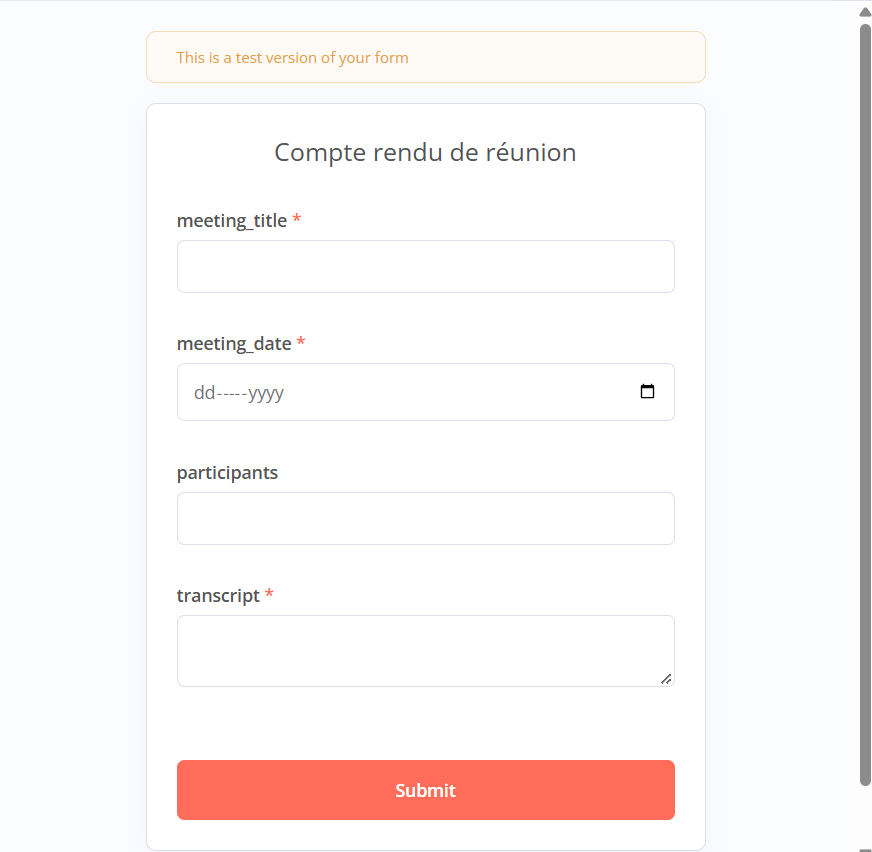
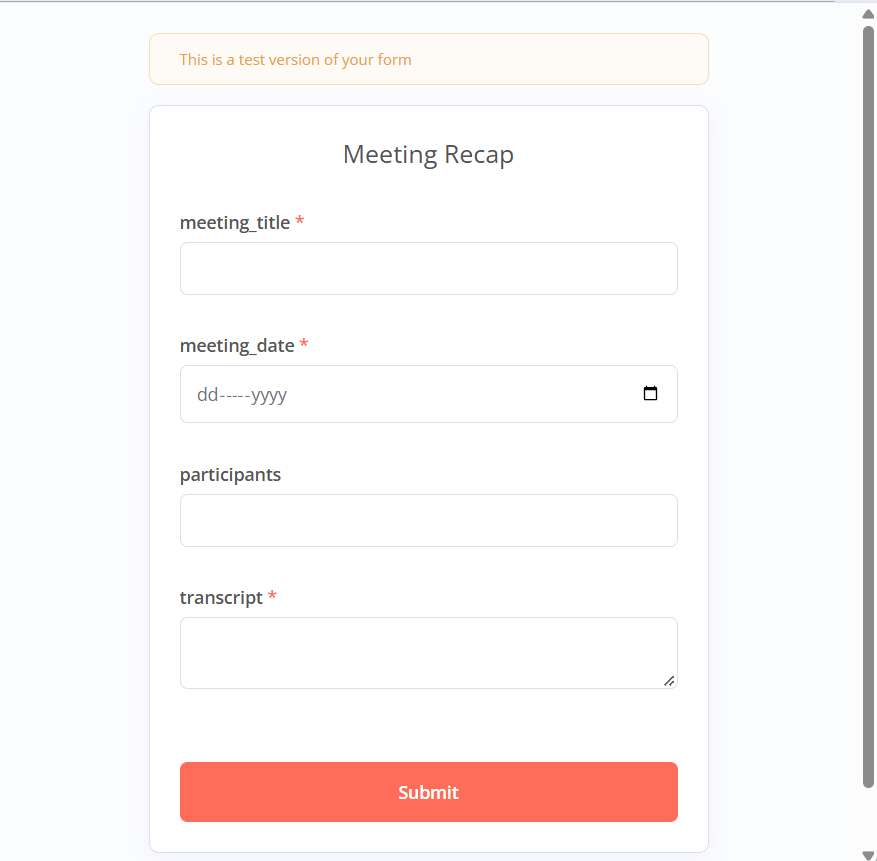
Fix docs (per-action rows), English form title, new form screenshot, re-exported workflow

diff --git a/README.md b/README.md
@@ -1,7 +1,7 @@
 # Meeting-to-Action Assistant
 
 An n8n + Claude workflow that turns a meeting transcript into a summary, decisions, assigned
-actions and open questions, posts the recap to Slack and logs every run in Google Sheets.
+actions and open questions, posts the recap to Slack, adds one row per action to a tracking Google Sheet and logs every run.
 
 **The problem.** Nobody likes writing meeting notes, so actions get lost and owners are unclear.
 This workflow produces the recap in about 15 seconds, without inventing owners or deadlines that
@@ -46,7 +46,7 @@ Form (title, date, participants, transcript)
         |
    Parse + validate output (Code node)
         |
-   Slack recap
+   Slack recap  ---->  one Google Sheet row per action (status: open)
         |
         +---------->  run log (date, title, word count, actions, minutes saved)
 
@@ -59,8 +59,8 @@ Any failure  --> Error workflow --> Slack alert with the failed step
   (`save_meeting_summary`), so the result is typed JSON: `summary`, `decisions`, `actions`
   (`task`, `owner`, `due_date`, `priority`), `open_questions`.
 - **Validation:** a Code node finds the `tool_use` block and merges title and date back in.
-- **Outputs:** a formatted Slack recap (actions without owner or date are flagged) and a row in a `Log` tab.
-- **Usage log:** every run adds a row (date, title, word count, number of actions, 15 minutes saved, an
+- **Outputs:** a formatted Slack recap (actions without owner or date are flagged) and one Sheet row per action with status `open`.
+- **Usage log:** every run adds a row to the `Log` tab (date, title, word count, number of actions, 15 minutes saved, an
   assumption, not a measurement) and a counter shows hours saved.
 - **Errors:** a separate error workflow posts a Slack alert with the failed step and a link to the execution.
 
@@ -69,8 +69,9 @@ Any failure  --> Error workflow --> Slack alert with the failed step
 1. In n8n, **Import from file** both `workflow/meeting-to-action.json` and `workflow/error-handler.json`.
 2. Create your own credentials (Anthropic key as a Header Auth credential named `x-api-key`, Slack, Google Sheets)
    and select them on the nodes. No secrets are stored in the exports.
-3. Point the Google Sheets node at your own sheet (a `Log` tab with the headers `date`, `meeting_title`,
-   `word_count`, `actions`, `minutes_saved`) and the Slack nodes at your channel.
+3. Point the two Google Sheets nodes at your own sheet and the Slack nodes at your channel. The sheet needs two tabs:
+   `Sheet1` with the headers `date`, `meeting`, `task`, `owner`, `due_date`, `priority`, `status` (one row per action),
+   and `Log` with `date`, `meeting_title`, `word_count`, `actions`, `minutes_saved` (one row per run).
 4. In the main workflow's settings, set the error workflow to the imported handler, then publish both.
 
 ## Prompt versions

diff --git a/docs/guide-en.md b/docs/guide-en.md
@@ -15,7 +15,7 @@
 
    ![The recap in Slack](img/guide-2-slack.png)
 
-4. Open the tracking sheet (link in the same channel): one row per run, with the title, word count and number of actions.
+4. Open the tracking sheet (link in the same channel): one row per action, with its owner, due date, priority and status "open".
 
    ![The tracking sheet](img/guide-3-tableau.png)
 
@@ -43,4 +43,4 @@
 
 After each recap, tell us in the Slack thread whether it was **useful** or not, and why. We collect the first feedback for one week, then fix the most annoying issues.
 
-*Time-saving assumption: 15 minutes saved per recap (an estimate, tracked in the "Log" tab of the sheet).*
+*Time-saving assumption: 15 minutes saved per recap (an estimate, tracked in the "Log" tab of the sheet, which gets one row per run).*
